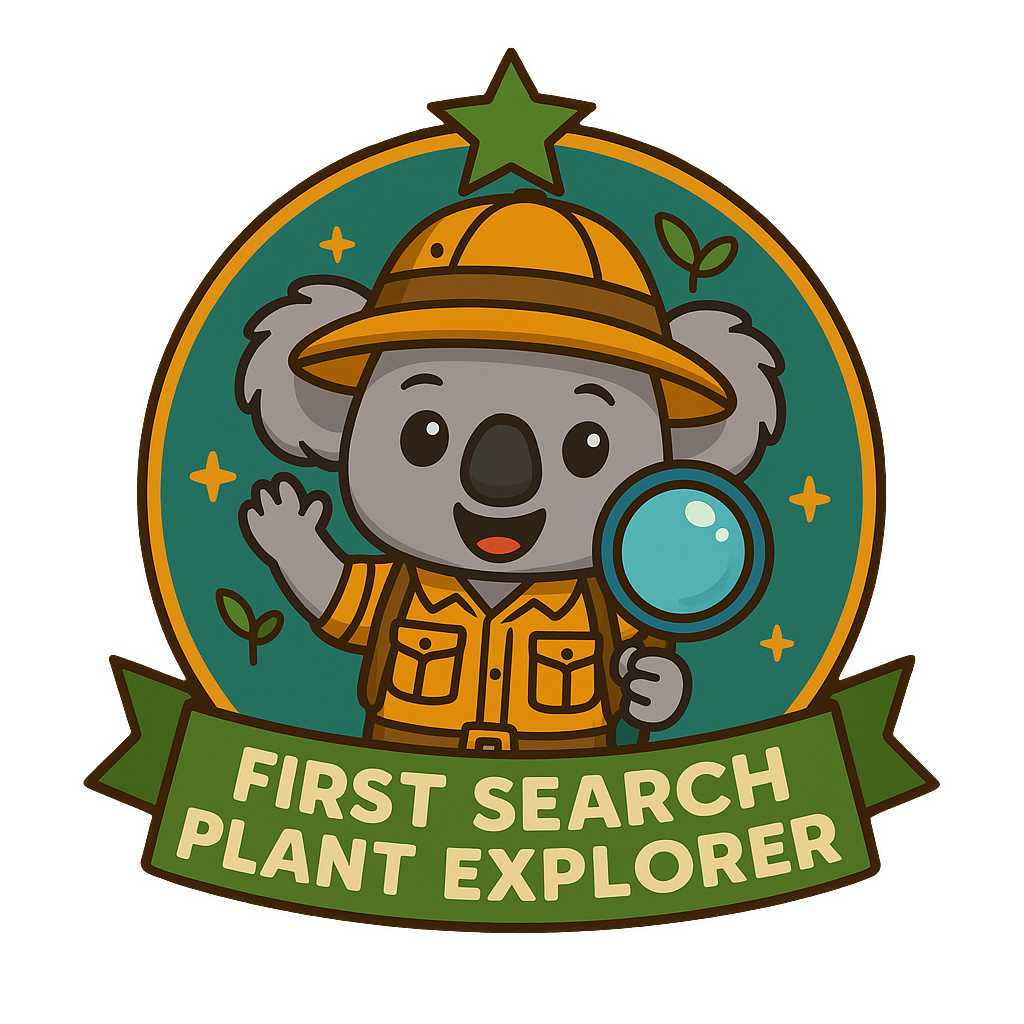
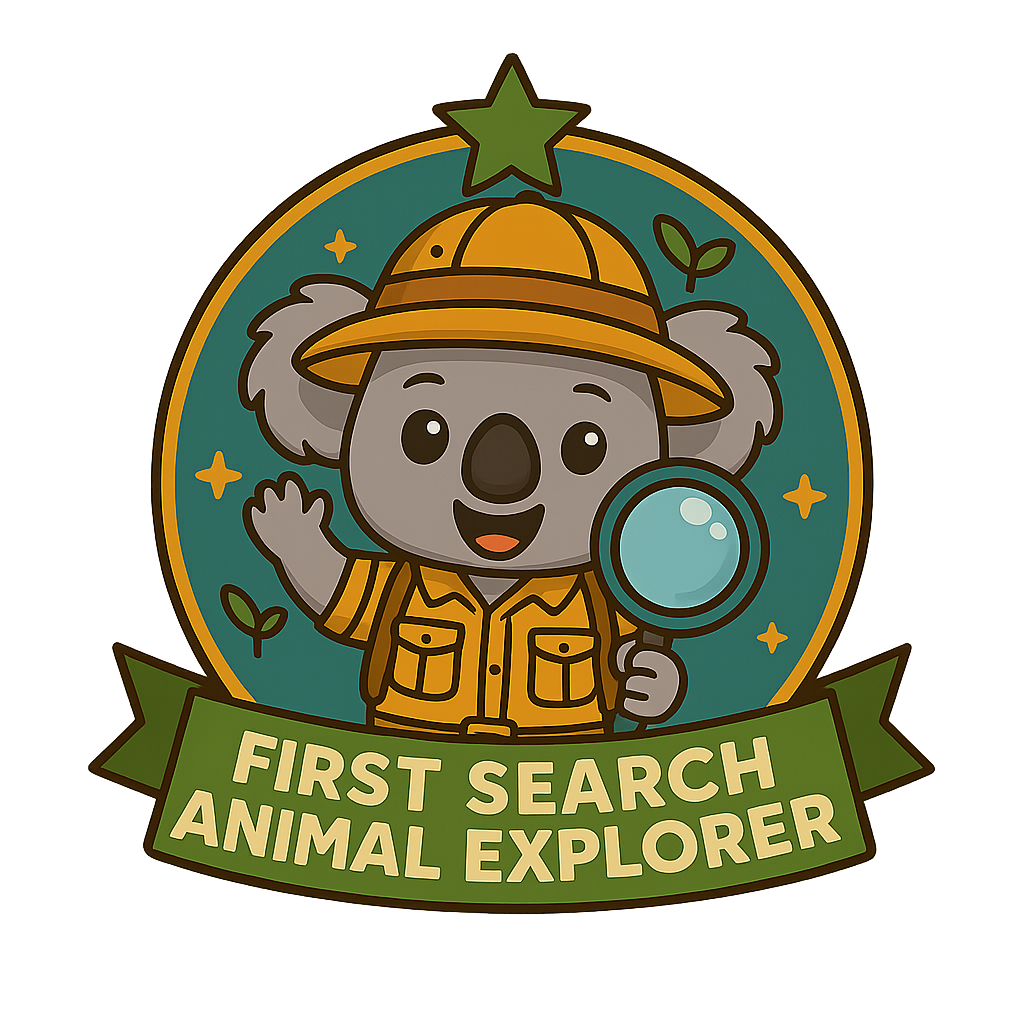
new plant explorer badges

Changed region(s): [[0.0625, 0.0625, 0.9375, 0.9375]]

diff --git a/index.html b/index.html
@@ -1369,6 +1369,8 @@
             'firstdiagnosisplantexplorer': 'First Diagnosis Plant Explorer',
             'firstsearchplantexplorer': 'First Search Plant Explorer',
             'firstplantaddedtocollection': 'First Plant Added to Collection',
+            //NEW Animal Explorer Badges
+            'firstsearchanimalexplorer': 'First Search Animal Explorer'
         };
 
         /**
